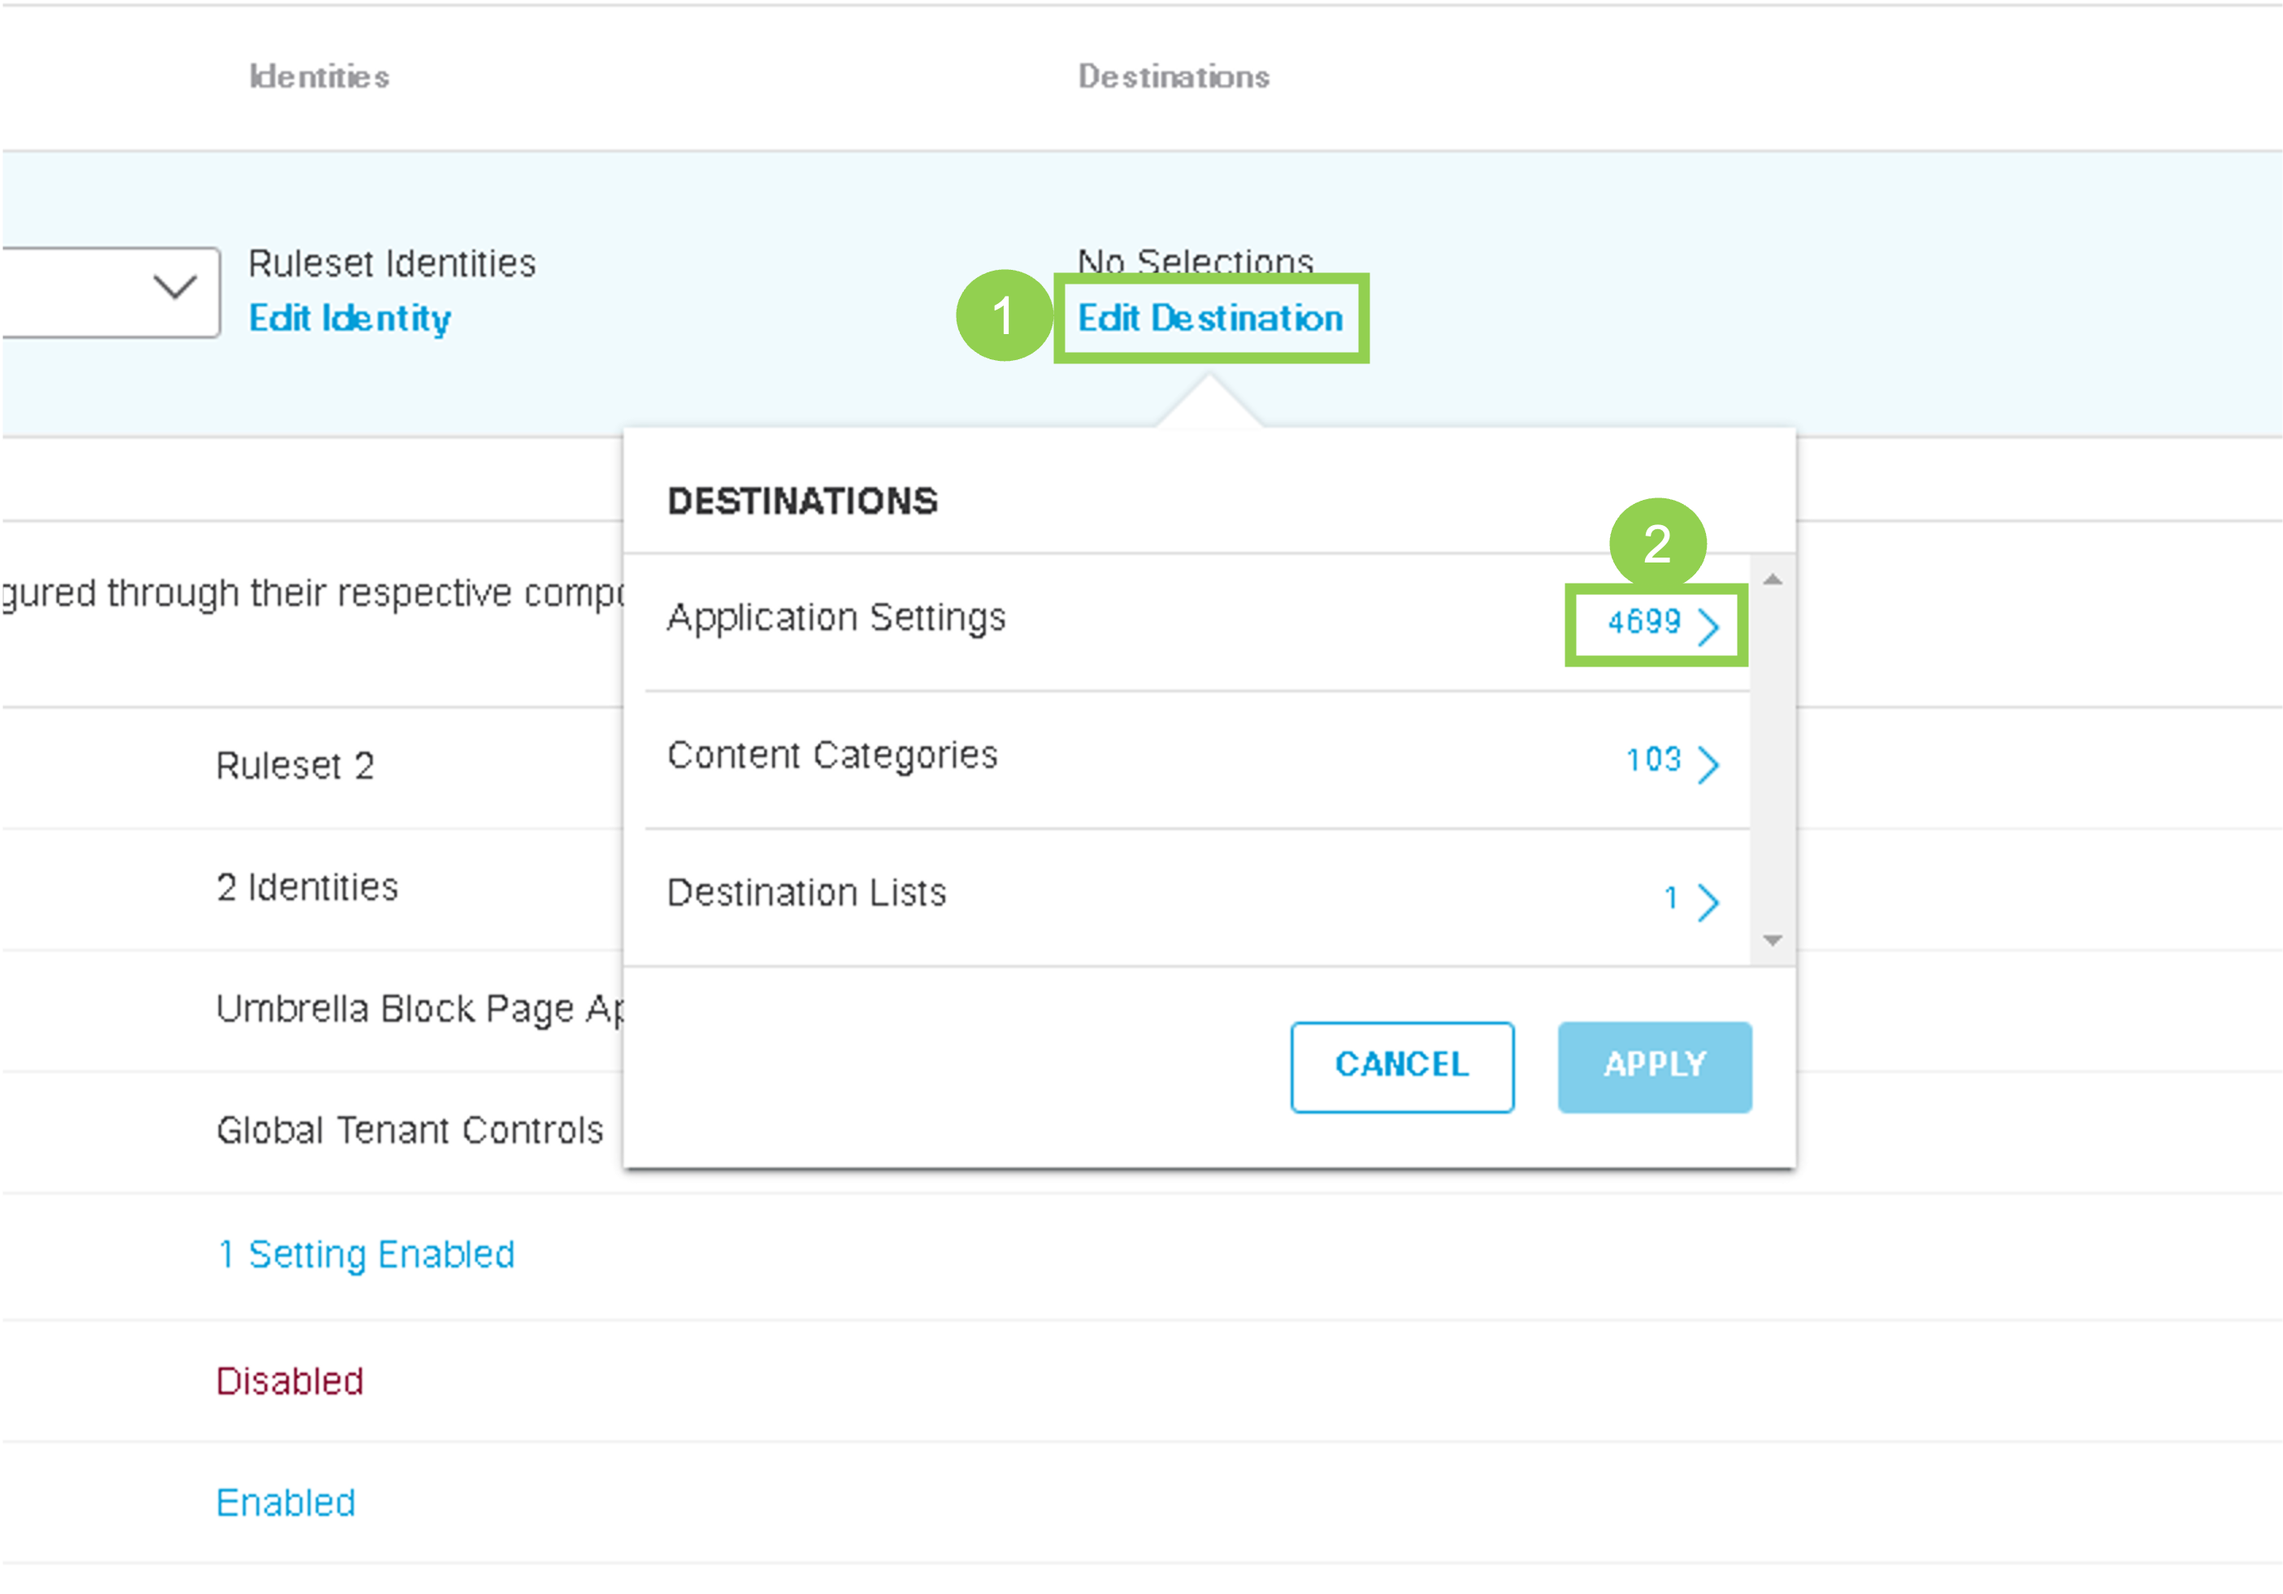
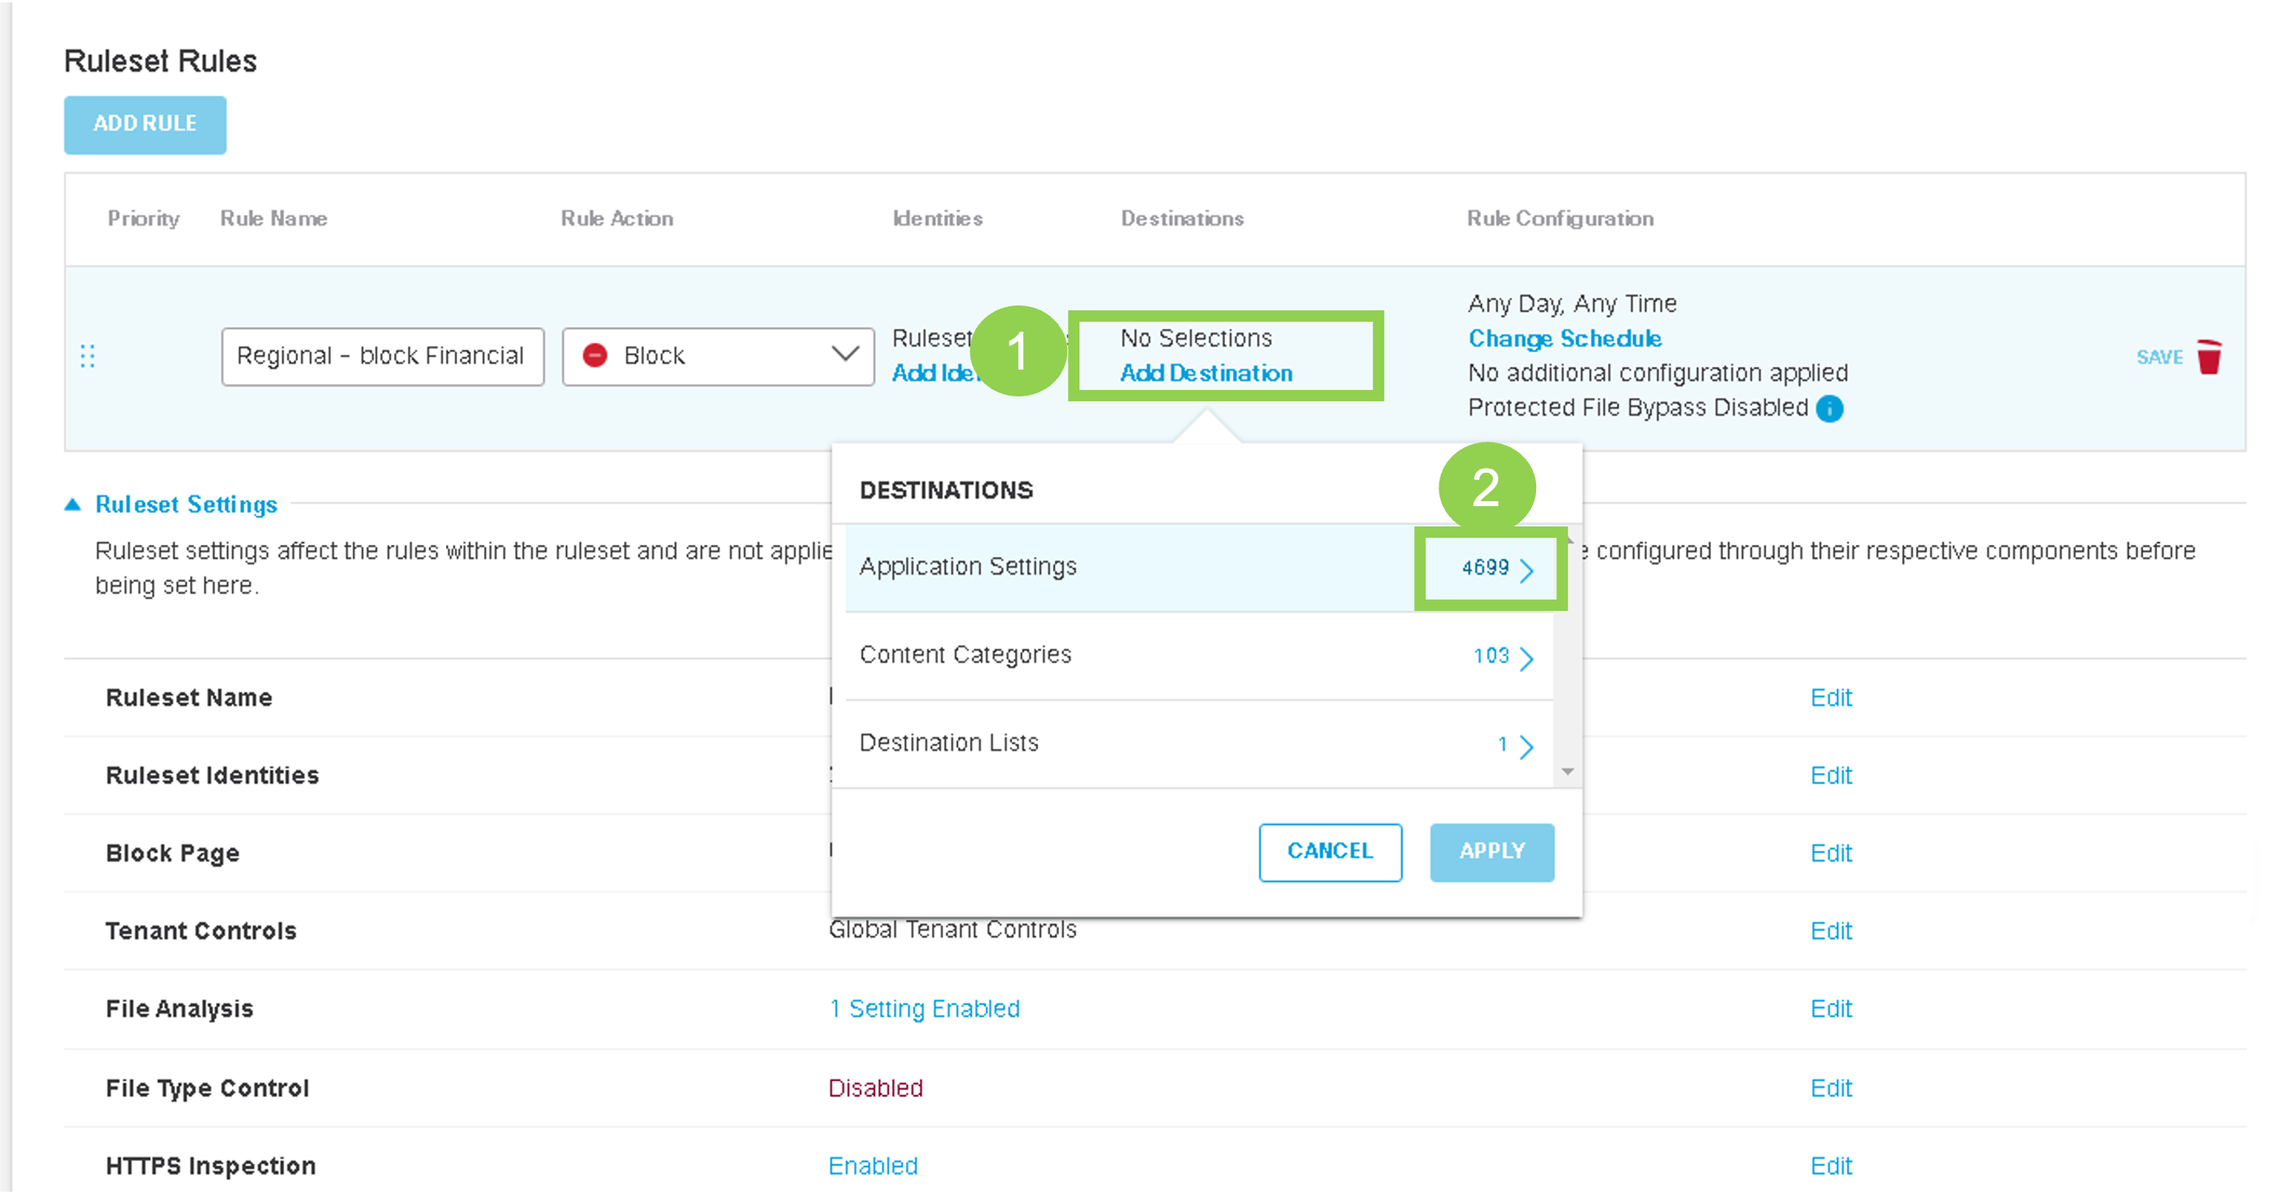
update

diff --git a/Task8/index.html b/Task8/index.html
@@ -86,6 +86,8 @@
     </li>
     <li class="toctree-l2"><a class="reference internal" href="#step-2-create-customs-list-web-policy">Step 2 - Create Customs-list Web Policy</a>
     </li>
+    <li class="toctree-l2"><a class="reference internal" href="#step-3-web-policy-tester">Step 3 - Web Policy Tester</a>
+    </li>
     </ul>
                 </li>
               </ul>
@@ -133,11 +135,11 @@
 </ul>
 <p><img alt="" src="../pics/umbrella-p5.png" /></p>
 <ul>
-<li>On the new <em>Ruleset Rules</em> web page, under <strong>Ruleset Settings</strong> scroll down to <strong>Ruleset identities</strong> and Click <strong>Edit</strong> as shown below:</li>
+<li>On the new "<em>Ruleset Rules</em>" web page, under <strong>Ruleset Settings</strong> scroll down to <strong>Ruleset identities</strong> and Click <strong>Edit</strong> as shown below:</li>
 </ul>
 <p><img alt="" src="../pics/t8-s1-ruleset-identity.png" /></p>
 <ul>
-<li>On the next <strong>Ruleset Identities</strong> web page, under <code>All Identities</code> scroll down to <strong>Tunnels</strong> and Click on number 4 with right arrow <strong><code>4 &gt;</code></strong> as shown below: </li>
+<li>Next on the <strong>Ruleset Identities</strong> web page, under <code>All Identities</code> scroll down to <strong>Tunnels</strong> and Click on number 4 with right arrow i.e., <strong><code>4 &gt;</code></strong> as shown below:</li>
 </ul>
 <p><img alt="" src="../pics/t8-s1-ruleset-identities-tunnels.png" /></p>
 <ul>
@@ -152,89 +154,143 @@
 </thead>
 <tbody>
 <tr>
-<td style="text-align: left;">You must only select SITE100 tunnels.  Do not select SITE300 tunnels in this step</td>
+<td style="text-align: left;">You must only select SITE100 tunnels.  <em>Do not</em> select SITE300 tunnels in this step.</td>
 </tr>
 </tbody>
 </table>
 <ul>
-<li>
-<p>On the <strong>Ruleset Settings</strong>  scroll down to <strong>HTTPS Inspection</strong> section and click <strong>Edit</strong> 
-<img alt="" src="../pics/umbrella-s1-p10.png" /></p>
-</li>
-<li>
-<p>Select <strong>Enable HTTPS Inspection</strong>, then click <strong>Save</strong>:
-<img alt="" src="../pics/umbrella-p18.png" /> </p>
-</li>
-<li>
-<p>After adding the identities, Click <strong>ADD RULE</strong> button.  Give the rule a Name of <strong>Regional - block Financial</strong> and verify the <code>Rule Action</code> is <code>Block</code>:
-<img alt="" src="../pics/t8-s1-add-rule.png" /></p>
-</li>
-<li>
-<p>Next click on <strong>Edit Identity</strong> for this rule.  Enable <strong>Inherit Ruleset Identities</strong> and click <strong>Apply</strong> as shown in below figure:
-<img alt="" src="../pics/t8-s1-edit-identity.png" /></p>
-</li>
-<li>
-<p>Further on the new rule, click on <strong>Edit Destination</strong> and Click on right arrow <strong><code>&gt;</code></strong> next to <strong>Application Settings</strong>:
-<img alt="" src="../pics/t8-s1-umbrella-edit-dest.png" /></p>
-</li>
-<li>
-<p>Then scroll down to Select <strong>Financial Services</strong> and hit <strong>Apply</strong>:
-<img alt="" src="../pics/t8-s1-umbrella-edit-dest-finance.png" /></p>
-</li>
-<li>
-<p>On the Rule click on <strong>Save</strong> icon to save newly added rule:
-<img alt="" src="../pics/t8-s1-umbrella-edit-dest-save.png" /></p>
-</li>
-<li>
-<p>For the Rule 1, click three (<strong><code>...</code></strong>) dots at the right side and then <strong>Enable Rule</strong> as shown in below screenshot:
-<img alt="" src="../pics/t8-s1-umbrella-rule-enable.png" /></p>
-</li>
-<li>
-<p>Confirm by clicking <strong>Update</strong>
-<img alt="" src="../pics/umbrella-p14.png" /></p>
-</li>
-<li>
-<p>Scroll down and click Close
-<img alt="" src="../pics/umbrella-p19.png" /></p>
-</li>
+<li>Under the <strong>Ruleset Settings</strong>, scroll down to <strong>HTTPS Inspection</strong> section and click <strong>Edit</strong>:</li>
+</ul>
+<p><img alt="" src="../pics/umbrella-s1-p10.png" /></p>
+<ul>
+<li>Select <strong>Enable HTTPS Inspection</strong>, then click <strong>Save</strong>:</li>
+</ul>
+<p><img alt="" src="../pics/umbrella-p18.png" /> </p>
+<ul>
+<li>After adding the identities, Click <strong>ADD RULE</strong> button.  Give the <strong>Rule Name</strong> of <strong><code>Regional - block Financial</code></strong> and verify the <code>Rule Action</code> is <code>Block</code>:</li>
+</ul>
+<p><img alt="" src="../pics/t8-s1-add-rule.png" /></p>
+<ul>
+<li>Next click on <strong>Add Identity</strong> for this rule.  Enable <strong>Inherit Ruleset Identities</strong> and click <strong>Apply</strong> as shown in below figure:</li>
+</ul>
+<p><img alt="" src="../pics/t8-s1-edit-identity.png" /></p>
+<ul>
+<li>Further on the new rule, click on <strong>Add Destination</strong> and Click on right arrow <strong><code>&gt;</code></strong> next to <strong>Application Settings</strong>:</li>
+</ul>
+<p><img alt="" src="../pics/t8-s1-umbrella-edit-dest.png" /></p>
+<ul>
+<li>Then scroll down to Select <strong>Financial Services</strong> and hit <strong>Apply</strong>:</li>
+</ul>
+<p><img alt="" src="../pics/t8-s1-umbrella-edit-dest-finance.png" /></p>
+<ul>
+<li>On the Rule click on <strong>Save</strong> icon to save newly added rule as shown in below screenshot:</li>
+</ul>
+<p><img alt="" src="../pics/t8-s1-umbrella-edit-dest-save.png" /></p>
+<ul>
+<li>By default newly created rules are disabled.  To enable the Rule 1, click three dots (<strong><code>...</code></strong>) at the right side and then toggle <strong>Enable Rule</strong> as shown in below screenshot. </li>
+</ul>
+<p><img alt="" src="../pics/t8-s1-umbrella-rule-enable.png" /></p>
+<ul>
+<li>Confirm by clicking <strong>Update</strong>:</li>
+</ul>
+<p><img alt="" src="../pics/umbrella-p14.png" /></p>
+<p>Now the rule and ruleset settings are all configured for Regional sites.</p>
+<ul>
+<li>Scroll down and click <strong>Close</strong> as shown in below screenshot
+<img alt="" src="../pics/umbrella-p19.png" /></li>
 </ul>
 <h2 id="step-2-create-customs-list-web-policy">Step 2 - Create Customs-list Web Policy</h2>
+<p>In the previous step, a web policy as per Umbrella classification of Financial services websites has been created.  Now let's create our own website list (using Umbrella <code>Destination List</code>) and then use Web policy to block web traffic to this list i.e., custom URL.  This will be done by adding a new rule under existing Ruleset for regional sites i.e., Ruleset 2.</p>
+<ul>
+<li>On Umbrella dashboard, navigate to <strong>Policy &gt; Policy Component &gt; Destination lists</strong>, click <strong>Add</strong> on the top right corner:</li>
+</ul>
+<p><img alt="" src="../pics/umbrella-s1-p11.png" /></p>
 <ul>
 <li>
-<p>On Umbrella dashboard, navigate to <strong>Policy &gt; Policy Component &gt; Destination lists</strong>, click <strong>Add</strong> on the top right corner
-<img alt="" src="../pics/umbrella-s1-p11.png" /></p>
+<p>Add this list as per below settings:</p>
 <ul>
 <li>List Name: <code>Custom-Filter</code></li>
 <li>Destination List type: <code>Web Proxy</code> (from drop-down menu)</li>
 <li>Destination: <code>www.cnn.com</code></li>
-<li>Click <strong><code>Add</code></strong>
-<img alt="" src="../pics/umbrella-s1-p12.png" /></li>
-<li>Click <strong>Save</strong> after adding destination/domain:
-<img alt="" src="../pics/umbrella-s1-p13.png" /></li>
+<li>
+<p>Click <strong><code>Add</code></strong>
+<img alt="" src="../pics/umbrella-s1-p12.png" /></p>
+</li>
+<li>
+<p>Click <strong>Save</strong> after adding destination/domain:
+<img alt="" src="../pics/umbrella-s1-p13.png" /></p>
+</li>
 </ul>
 </li>
 <li>
-<p>Navigate to <strong>Policies &gt; Management &gt;Web Policy</strong> and expand on <strong>RuleSet 2</strong></p>
+<p>Navigate to <strong>Policies &gt; Management &gt; Web Policy</strong> and expand on <strong>RuleSet 2</strong> by clicking on it or by clicking down-arrow:</p>
 <p><img alt="" src="../pics/umbrella-s1-p14.png" /></p>
 </li>
 <li>
-<p>Click three dots <strong><code>...</code></strong> and then click <strong>Edit</strong>
- <img alt="" src="../pics/umbrella-s1-p15.png" /></p>
+<p>Let's add a new rule by clicking <strong>ADD RULE</strong> button.  Give the <strong>Rule Name</strong> of <strong><code>Regional - block custom</code></strong> and verify the <code>Rule Action</code> is <code>Block</code>:
+<img alt="" src="../pics/add-rule-2.png" /></p>
 </li>
 <li>
-<p>Click on <strong>Edit Destinations</strong> and then on <strong>Destiniation Lists</strong></p>
+<p>Next let's also use ruleset identities for this rule.  Click on <strong>Add Identity</strong> for this rule and enable <strong>Inherit Ruleset Identities</strong> and click <strong>Apply</strong> as shown in below figure:</p>
 </li>
 </ul>
-<p><img alt="" src="../pics/umbrella-s1-p16.png" /></p>
+<p><img alt="" src="../pics/add-rule-2-identity.png" /></p>
 <ul>
-<li>Click on <strong>Customer-Filter</strong> and then on <strong>Apply</strong></li>
+<li>Further on the new rule, click on <strong>Add Destination</strong> and CLick on the right arrow  <strong><code>&gt;</code></strong> next to <strong>Destiniation Lists</strong></li>
+</ul>
+<p><img alt="" src="../pics/add-rule-2-dest.png" /></p>
+<ul>
+<li>Select the <strong>Custom-Filter</strong> and then click on <strong>Apply</strong></li>
 </ul>
 <p><img alt="" src="../pics/umbrella-s1-p17.png" /></p>
 <ul>
-<li>Click on <strong>Save</strong> and <strong>Close</strong> the <strong>RuleSet 2</strong></li>
+<li>
+<p>Click on <strong>Save</strong> on this newly created rule:
+<img alt="" src="../pics/add-rule-2-save.png" /></p>
+</li>
+<li>
+<p>By default newly created rules are disabled.  To enable the Rule 2, click three dots (<strong><code>...</code></strong>) at the right side and then toggle <strong>Enable Rule</strong> as shown in below screenshot. </p>
+</li>
 </ul>
-<p><img alt="" src="../pics/umbrella-s1-p18.png" /></p>
+<p><img alt="" src="../pics/rule-2-enable.png" /></p>
+<ul>
+<li>Confirm by clicking <strong>Update</strong>:</li>
+</ul>
+<p><img alt="" src="../pics/umbrella-p14.png" /></p>
+<ul>
+<li>After saving the rule, You may scroll down under Ruleset settings and click on <strong>Close</strong> button.</li>
+</ul>
 <p>Now the Umbrella policies for regional sites (site-100 and Site-400) have been configured. </p>
+<h2 id="step-3-web-policy-tester">Step 3 - Web Policy Tester</h2>
+<p>Let's go through the steps to test the newly created Web policies by using "Policy Tester" on  Umbrella.</p>
+<ul>
+<li>
+<p>On Umbrella Dashboard, navigate to <strong>Policies &gt; Management &gt; Web Policy</strong>.  Click on <strong>Policy Tester</strong> at the top right corner: 
+<img alt="" src="../pics/umbrella-web-policy-test.png" /></p>
+</li>
+<li>
+<p>On the <code>Web Policy Tester</code> page,</p>
+<ul>
+<li>Under the <strong>Primary Identity</strong> search box type <strong><code>Site1</code></strong> and then select any of the <strong>Site100</strong> tunnels </li>
+<li>Under <strong>Destination</strong>, enter <strong><code>chase.com</code></strong></li>
+<li>Then click <strong>Run Test</strong> button: 
+<img alt="" src="../pics/web-policy-test-result-regional-1.png" /></li>
+</ul>
+</li>
+</ul>
+<p>The result of this test appears on the page and as expected it shows the Ruleset 2 and rule being matched by the Web policy. </p>
+<ul>
+<li>
+<p>Next run a test for any of the Site100 tunnel for below destinations:</p>
+<ul>
+<li>Under <strong>Destination</strong>, enter <strong><code>www.cnn.com</code></strong>
+<img alt="" src="../pics/web-policy-test-result-regional-2.png" /></li>
+</ul>
+</li>
+<li>
+<p>Explore the Web Policy Tester further by testing traffic to different destination website such as cisco.com, google.com etc.</p>
+</li>
+</ul>
               
             </div>
           </div><footer>

diff --git a/index.html b/index.html
@@ -175,5 +175,5 @@
 
 <!--
 MkDocs version : 1.5.3
-Build Date UTC : 2024-01-16 11:27:09.786307+00:00
+Build Date UTC : 2024-01-17 10:04:35.166106+00:00
 -->
